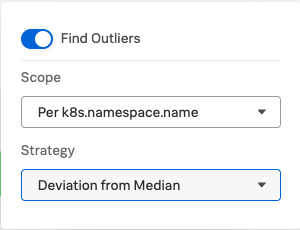
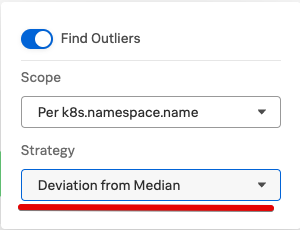
updated the navi-tour page

Changed region(s): [[0.06, 0.8826, 0.93, 0.9435]]

diff --git a/content/en/other/tko/session-5/docs/check-new-navigator.md b/content/en/other/tko/session-5/docs/check-new-navigator.md
@@ -91,12 +91,12 @@ Which of the levels in the `Breadcrumbs` provides `Related Content` for logs?
 You can switch to the `K8s Workloads` view in two ways:
 
 * Change the value in the **Service** drop down box in the breadcrumbs from *K8s nodes* to *K8s workloads*
-
+![k8sToggle](../images/service-toggle.png)
   **OR**
 
 * Go to the **Infrastructure** menu item in the Observability UI and select **Kubernetes** again, then pick the `K8s workloads` pane
 
-![k8sNode](../images/K8s-Workloads.png) ![k8sToggle](../images/service-toggle.png)
+![k8sNode](../images/K8s-Workloads.png) 
 
 Initially, the workload view will show you all the workloads that are reported by your clusters into your Observability Cloud Org. If an alert has fired for any of the workloads, it will be highlighted on the top right, *as marked with a red stripe in the image below*. You can go directly to the alert by clicking it to expand it.
 
@@ -132,7 +132,7 @@ This might be a useful view if you have many clusters as they can be grouped tog
 
 The last option, is `Find Outliers` which provides historical analytics of your clusters based on what is selected in the `Color by` box.
 
-Now, click on the `Find outliers` drop down *as marked by a yellow stripe in the above image* and make sure the dialog is set as below:
+Now, click on the `Find outliers` drop down *as marked by a yellow stripe in the above image* and make sure you change the Strategy in the dialog  to `Deviation from Median` as below:
 
 ![k8s-Heat-map](../images/set-find-outliers.png)
 
@@ -154,7 +154,11 @@ The workload overview gives you a quick insight of the status of your deployment
 * *Failed* means the containers in the pod have run and returned some kind of error
 * *Unknown* means Kubernetes isn't reporting any of the known states. (This may be during start or stopping pods, for example).
 
-To filter to a specific Workload, simply click on three dots `...` next to the workload name in the *k8s.workload.name* column and choose `filter` from the drop down box.
+You can expand the Workload name by hoovering you mouse on it, in case the name is longer then the chart allows.
+
+![k8s-workload-hoover](../images/k8s-workload-hoover.png)
+
+To filter to a specific Workload, you can click on three dots `...` next to the workload name in the *k8s.workload.name* column and choose `filter` from the drop down box.
 
 ![workload-add-filter](../images/workload-add-filter.png)
 
@@ -172,7 +176,8 @@ What is the desired number of pods for the `splunk-otel-collector-k8s-cluster-re
 
 To bring up details of a workload in the Kubernetes Navigator, you either need to expand a namespace in the list mode or click on a workload square in the heatmap view.
 
-In the heatmap mode, double click on the square for the `splunk-otel-collector-agent` workload in the *splunk* namespace.
+First, remove the filter you set in the previous step, by clicking on the `x` behind the filter at the top of the page.
+Then, in the heatmap mode, double click on the square for the `splunk-otel-collector-agent` workload in the *splunk* namespace.
 
 ![workload-expand](../images/workload-expand.png)
 
@@ -186,8 +191,8 @@ What are the names of the container(s) in the **CPU resources (cpu units)** char
 
 ## 4. Pivot Sidebar
 
-Later in the workshop, you will deploy an Apache server into your cluster which= will cause a pivot bar to appear.
-As soon as any metric that is displayed in a Navigator is flowing into your observability org, the system will add that service to the pivot bar.
+Later in the workshop, you will deploy an Apache server into your cluster which will cause a `pivot bar` to appear.
+As soon as any metric that is used by a Navigator, is flowing into your Observability org, the system will add that service to the pivot bar.
 
 The pivot bar will expand and a link to the discovered service will be added as seen in the image below:
 
